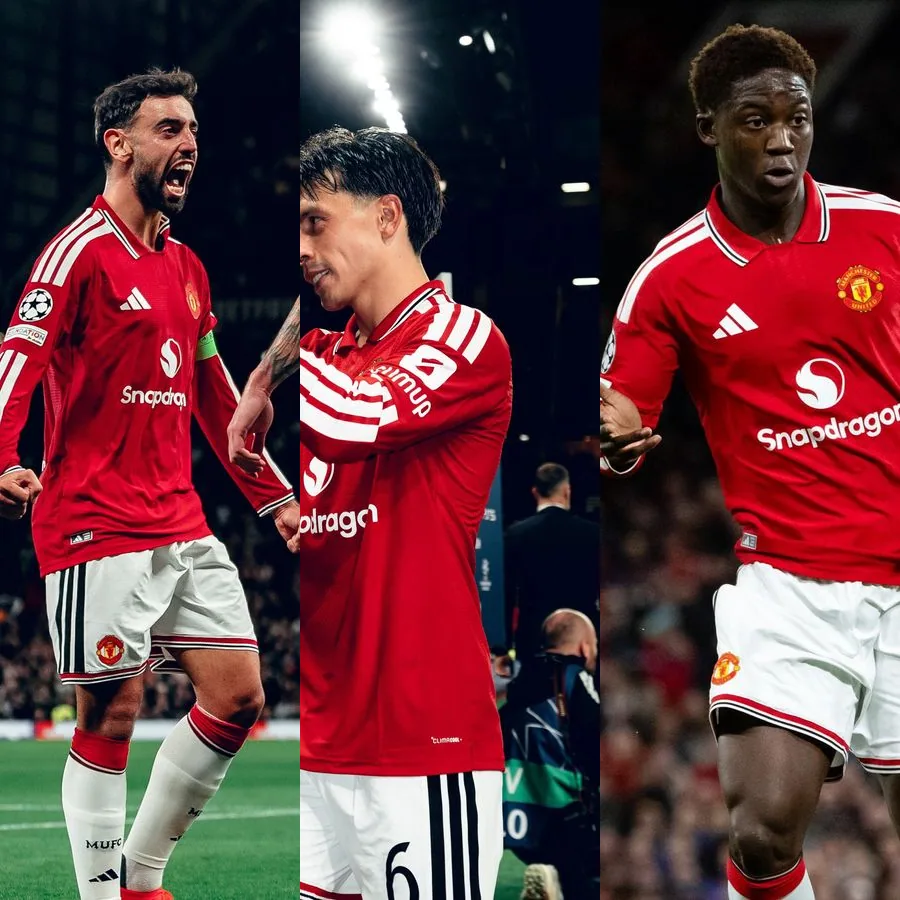
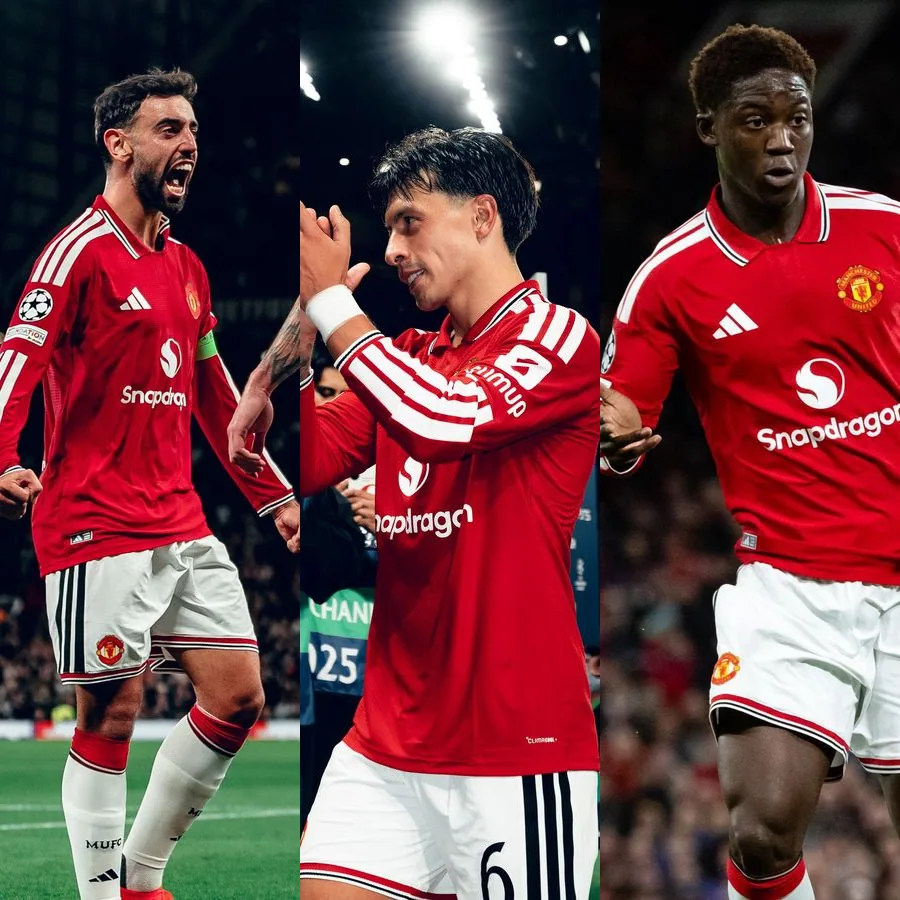
교정(축디): 유니폼관 인물 초점 정리와 맨체스터 더비 연결
하세가와 경기 사진과 맨유 표지·카드의 리산드로 칸을 얼굴 중심으로 다시 자르고,
리버풀 유혹 구간을 4:5 고정·사진 아래 캡션으로 바꿨다. 맨유 다음 편을 맨시티로 이어
더비 두 편을 서로 연결하고, 다음 편 썸네일은 얼굴이 잘리지 않는 16:9 표지를 쓴다.

Changed region(s): [[0.3111, 0.0, 0.6844, 1.0]]

diff --git a/HANDOFF.md b/HANDOFF.md
@@ -3,15 +3,15 @@
 
 ## 현재 인수인계 — 2026-09-11
 
-- **맨시티 2026/27 홈 유니폼관 발행 (Claude, EPL BIG6 순회 다섯째 편, 2026-09-12 0시):** `/culture/manchester-city-2026-27-home-kit-haaland-foden-cherki-dias/`. 운영자 지정 메인 모델은 홀란·포든·셰르키·후벵 디아스, 여성은 앨릭스 그린우드·하세가와 유이다(로드리는 8월 바르셀로나 이적). 운영자가 리버풀 유혹 구간의 인물 초점이 어긋났다고 지적해, 이번 편은 맨시티 공식 선수 프로필 컷아웃 사진을 얼굴 중심·머리 높이를 계산해 같은 선에 배치했고, 유혹 구간은 4:5 고정 비율에 캡션을 사진 아래로 내려 얼굴을 가리지 않게 했다. 본문 축은 어깨에서 밑단으로 옅어지는 그라데이션, 새 킷 첫 경기가 된 5월 24일 과르디올라·베르나르두·스톤스 고별전(빌라 1-2, 593경기·20개 트로피), 마레스카 부임과 디아스 주장, 코번트리전 홀란 헤더, WSL 챔피언 여자팀이다. 제휴 링크가 없어 푸마 코리아 공식 상품 페이지로 레플리카 129,000원·롱슬리브 149,000원·어센틱 209,000원·쇼츠 79,000원(2026-09-11 확인)을 연결했다. NEXT KIT STORY는 더비 상대 맨유다. 축디 공개 글은 30편, 유니폼관은 12편이다.
+- **맨시티 2026/27 홈 유니폼관 발행 (Claude, EPL BIG6 순회 다섯째 편, 2026-09-12 0시):** `/culture/manchester-city-2026-27-home-kit-haaland-foden-cherki-dias/`. 운영자 지정 메인 모델은 홀란·포든·셰르키·후벵 디아스, 여성은 앨릭스 그린우드·하세가와 유이다(로드리는 8월 바르셀로나 이적). 운영자가 리버풀 유혹 구간의 인물 초점이 어긋났다고 지적해, 이번 편은 맨시티 공식 선수 프로필 컷아웃 사진을 얼굴 중심·머리 높이를 계산해 같은 선에 배치했고, 유혹 구간은 4:5 고정 비율에 캡션을 사진 아래로 내려 얼굴을 가리지 않게 했다. 본문 축은 어깨에서 밑단으로 옅어지는 그라데이션, 새 킷 첫 경기가 된 5월 24일 과르디올라·베르나르두·스톤스 고별전(빌라 1-2, 593경기·20개 트로피), 마레스카 부임과 디아스 주장, 코번트리전 홀란 헤더, WSL 챔피언 여자팀이다. 제휴 링크가 없어 푸마 코리아 공식 상품 페이지로 레플리카 129,000원·롱슬리브 149,000원·어센틱 209,000원·쇼츠 79,000원(2026-09-11 확인)을 연결했다. NEXT KIT STORY는 더비 상대 맨유다. 발행 직후 운영자 지적으로 하세가와 경기 사진을 4000px 원본에서 얼굴 중심으로 다시 자르고, 맨유 표지·카드의 리산드로 칸을 얼굴 중심으로 옮겼다. 맨시티·맨유·리버풀의 NEXT KIT STORY 썸네일은 16:9 칸에서 정사각 카드 위아래가 잘려 얼굴이 빠지므로 16:9 표지 이미지를 쓴다. 축디 공개 글은 30편, 유니폼관은 12편이다.
 
 - **유니폼관 문체 교정 (운영자 지시):** 아스널·첼시·맨유·리버풀·바르사 유니폼관에서 사진 확보 사정 설명, 옛 모델 선제 변명, `구매 구간` 같은 내부 지면 용어, 링크 선정 기준 문장, `삥이FC가 편집한 표지다` 3인칭 자기 호명을 지웠다. 리버풀의 `구단은 ~라고 적었다/설명한다` 보도체 일부는 사실 서술로 바꿨다. 재발 방지로 `scripts/validate-editorial-writing.mjs` 공개 원고 제작 과정 차단어에 `삥이FC가 편집한`, `구매 구간`, `우선해 연결했`를 추가했고 기준은 `CONTENT_EDITORIAL_INTENT.md` §9에 적었다. 제휴 고지의 `삥이FC가 수수료를 받을 수 있으며`는 법적 고지라 유지한다.
 
 - **메인 1:1 칸 채움 규칙 (운영자 합의, 모든 PC·AI 공통):** 모든 칸을 `contain`으로 두던 방식은 16:9 사진에 회색 위아래 여백을 만들어 메인 미감을 해쳤다. `src/pages/index.astro`는 이제 대표·분야별·최근·더보기 칸 모두 `cardImage`를 먼저 쓰고(없으면 `coverImage`), 빌드 때 sharp로 비율을 읽어 비율 차 15% 이내 정사각형 편집물은 `contain`, 나머지는 `media-frame--fill` + `cover` + `image-focal-points.json` 초점값으로 채운다. 해펠 한 편에만 걸려 있던 `lead-image--cover-fill` 예외는 이 규칙으로 흡수했다. 레알 2026/27 3인 카드에 머리가 잘리지 않도록 초점값(y 12)을 추가했다. `scripts/qa-home-thumbnails.mjs`의 기대값도 새 규칙으로 바꿨다. 축세 `football-shirt-sponsorship-history`는 카드 이미지가 글자 박힌 16:9 영상 썸네일이라 채움 시 `BARÇA x SPOTIFY x TRAVIS SCOTT` 양끝이 잘렸다. 운영자 승인으로 같은 공식 영상 캡처에서 글자 없이 트래비스 스콧만 담은 900×900 `barcelona-travis-scott-card.webp`를 만들어 `cardImage`로 연결했다. 글 대표 이미지·OG·본문 이미지는 기존 16:9 원본 그대로다.
 
-- **리버풀 2026/27 홈 유니폼관 발행 (Claude, EPL BIG6 순회 넷째 편):** `/culture/liverpool-2026-27-home-kit-van-dijk-wirtz-szoboszlai-alisson/`. 운영자 지정 메인 모델은 판데이크·비르츠·소보슬러이·알리송이다. 판데이크·비르츠·알리송(골키퍼 셔츠)은 구단 스튜디오 화보, 소보슬러이는 5월 24일 첫 경기 사진과 7월 17일 재계약 날 안필드 사진을 썼다. 본문 축은 1989/90시즌 18번째 우승 셔츠의 무늬, 리버버드 서체와 목 뒤 97 추모 불꽃, 첫 경기가 된 살라흐·로버트슨의 안필드 고별전(브렌트퍼드 1-1, 5위), 슬롯 퇴임과 이라올라 부임이다. 26/27 홈 킷을 입은 여성 셀럽은 확인되지 않아 아디다스 여성 크롭 셔츠 모델과 구단 여자팀 화보(그레이스 피스크, 이름이 공개되지 않은 선수 두 명은 LFC WOMEN 표기)로 유혹 구간을 구성했다. 캠페인에 참여한 데니스 오설리번은 이후 고섬 FC로 임대돼 제외했다. 애드픽 아디다스 제휴상품 5개(`adidas-liverpool-ka6852` 홈 저지 129,000원, `adidas-liverpool-kb8268` 롱 슬리브 139,000원, `adidas-liverpool-ka6854` 홈 쇼츠 59,000원, `adidas-liverpool-kx3897` 펫 저지 49,000원, `adidas-liverpool-kr0354` 오리 풋볼 백 89,000원, 2026-09-11 확인)를 추가했고 어센틱은 애드픽 링크가 없어 싣지 않았다. NEXT KIT STORY는 리버풀 → 맨유다. 축디 공개 글은 29편, 유니폼관은 11편이다.
+- **리버풀 2026/27 홈 유니폼관 발행 (Claude, EPL BIG6 순회 넷째 편):** `/culture/liverpool-2026-27-home-kit-van-dijk-wirtz-szoboszlai-alisson/`. 운영자 지정 메인 모델은 판데이크·비르츠·소보슬러이·알리송이다. 판데이크·비르츠·알리송(골키퍼 셔츠)은 구단 스튜디오 화보, 소보슬러이는 5월 24일 첫 경기 사진과 7월 17일 재계약 날 안필드 사진을 썼다. 본문 축은 1989/90시즌 18번째 우승 셔츠의 무늬, 리버버드 서체와 목 뒤 97 추모 불꽃, 첫 경기가 된 살라흐·로버트슨의 안필드 고별전(브렌트퍼드 1-1, 5위), 슬롯 퇴임과 이라올라 부임이다. 26/27 홈 킷을 입은 여성 셀럽은 확인되지 않아 아디다스 여성 크롭 셔츠 모델과 구단 여자팀 화보(그레이스 피스크, 이름이 공개되지 않은 선수 두 명은 LFC WOMEN 표기)로 유혹 구간을 구성했다. 캠페인에 참여한 데니스 오설리번은 이후 고섬 FC로 임대돼 제외했다. 애드픽 아디다스 제휴상품 5개(`adidas-liverpool-ka6852` 홈 저지 129,000원, `adidas-liverpool-kb8268` 롱 슬리브 139,000원, `adidas-liverpool-ka6854` 홈 쇼츠 59,000원, `adidas-liverpool-kx3897` 펫 저지 49,000원, `adidas-liverpool-kr0354` 오리 풋볼 백 89,000원, 2026-09-11 확인)를 추가했고 어센틱은 애드픽 링크가 없어 싣지 않았다. NEXT KIT STORY는 리버풀 → 맨유다. 이후 운영자 지적으로 유혹 구간을 4:5 고정 비율과 사진 아래 캡션으로 바꿔 얼굴이 캡션에 가리지 않게 했다(맨시티 편과 같은 방식). 축디 공개 글은 29편, 유니폼관은 11편이다.
 
-- **맨유 2026/27 홈 유니폼관 발행 (Claude, EPL BIG6 순회 셋째 편):** `/culture/manchester-united-2026-27-home-kit-bruno-lisandro-mainoo/`. 운영자 지정 메인 모델은 브루노 페르난데스·리산드로 마르티네스·코비 마이누다. 세 사람은 구단·아디다스 홈 캠페인 스튜디오에 없어서, 새 홈 셔츠(긴소매)를 입고 브루노·리산드로가 골을 넣은 2026년 9월 10일 UEFA 챔피언스 리그 복귀전(사바 4-0) 구단 공식 사진으로 표지와 인물 카드를 만들었다. 본문 축은 1977년 FA컵 우승 50주년 폴로 칼라, 5월 17일 첫 실전(포리스트 3-2, 3위 확정, 브루노 20도움)과 21도움 기록, 9월 13일 199번째 더비다. 유혹 구간은 멜빈 말라르·도미니크 얀센(아디다스, House of Heat 경유)과 제스 박·레아 쉴러(구단)다. 26/27 킷을 입은 K팝 스타는 확인되지 않아 단정하지 않았고, 기존 제니(명품관)·오하영(오뭐입?) 맨유 글을 링크 카드로 연결했다. 애드픽 아디다스 제휴상품 4개(`adidas-manutd-ka6871` 129,000원, `adidas-manutd-ka6868` 199,000원, `adidas-manutd-kc4773` 139,000원, `adidas-manutd-kx3899` 펫 저지 49,000원, 2026-09-11 확인)를 중앙 목록에 추가했고, 펫 저지는 구매 카드 묶음 아래 별도 가로 카드로 세웠다. NEXT KIT STORY는 맨유 → 첼시다. 축디 공개 글은 28편, 유니폼관은 10편이다.
+- **맨유 2026/27 홈 유니폼관 발행 (Claude, EPL BIG6 순회 셋째 편):** `/culture/manchester-united-2026-27-home-kit-bruno-lisandro-mainoo/`. 운영자 지정 메인 모델은 브루노 페르난데스·리산드로 마르티네스·코비 마이누다. 세 사람은 구단·아디다스 홈 캠페인 스튜디오에 없어서, 새 홈 셔츠(긴소매)를 입고 브루노·리산드로가 골을 넣은 2026년 9월 10일 UEFA 챔피언스 리그 복귀전(사바 4-0) 구단 공식 사진으로 표지와 인물 카드를 만들었다. 본문 축은 1977년 FA컵 우승 50주년 폴로 칼라, 5월 17일 첫 실전(포리스트 3-2, 3위 확정, 브루노 20도움)과 21도움 기록, 9월 13일 199번째 더비다. 유혹 구간은 멜빈 말라르·도미니크 얀센(아디다스, House of Heat 경유)과 제스 박·레아 쉴러(구단)다. 26/27 킷을 입은 K팝 스타는 확인되지 않아 단정하지 않았고, 기존 제니(명품관)·오하영(오뭐입?) 맨유 글을 링크 카드로 연결했다. 애드픽 아디다스 제휴상품 4개(`adidas-manutd-ka6871` 129,000원, `adidas-manutd-ka6868` 199,000원, `adidas-manutd-kc4773` 139,000원, `adidas-manutd-kx3899` 펫 저지 49,000원, 2026-09-11 확인)를 중앙 목록에 추가했고, 펫 저지는 구매 카드 묶음 아래 별도 가로 카드로 세웠다. NEXT KIT STORY는 맨시티 편 발행 뒤 더비 짝에 맞춰 맨유 → 맨시티로 바꿨다(맨시티 → 맨유와 서로 연결). 축디 공개 글은 28편, 유니폼관은 10편이다.
 
 - **도구·PC 간 인수인계 규칙 (운영자 지시):** Codex와 Claude, 집 PC와 회사 PC는 대화 이력과 로컬 메모리를 공유하지 못한다. 마지막으로 작업한 도구가 운영자의 새 확정·교정 사항을 저장소 문서(편집 판단은 `CONTENT_EDITORIAL_INTENT.md`, 현재 상태는 이 브리프, 장기 규칙은 `CLAUDE.md`)에 반영해 커밋한다. `AGENTS.md` §5 4번과 `CLAUDE.md` 작업·검증 원칙에 고정했다. 첫 적용으로 첼시 BADGE NOTE의 로고·배지 병기 기준(소제목 옆 28px 투명 PNG 아이콘, 보이는 원 크기 일치)을 `CONTENT_EDITORIAL_INTENT.md` §9에 옮겼다.
 

diff --git a/src/content/articles/liverpool-2026-27-home-kit-van-dijk-wirtz-szoboszlai-alisson.md b/src/content/articles/liverpool-2026-27-home-kit-van-dijk-wirtz-szoboszlai-alisson.md
@@ -214,7 +214,7 @@ featured: false
 
 <a class="lv-next" href="/culture/manchester-united-2026-27-home-kit-bruno-lisandro-mainoo/" aria-label="맨유 2026/27 홈 유니폼 글 더 보기">
   <span class="lv-next__content"><span class="lv-next__copy"><small>NEXT KIT STORY · 03F 유니폼관</small><strong>안필드의 빨강 다음은<br />맨유의 빨강</strong><span>브루노·리산드로·마이누가 복귀전에서 입은 2026/27 홈 셔츠로 이어서 봅니다.</span></span><span class="lv-next__cta">맨유 홈 유니폼 보러 가기 <b aria-hidden="true">→</b></span></span>
-  <span class="lv-next__thumb"><img src="/images/culture/manutd-2627-home/card.webp" alt="맨체스터 유나이티드 2026/27 홈 유니폼을 입은 브루노 페르난데스, 리산드로 마르티네스, 코비 마이누" width="900" height="900" loading="lazy" decoding="async" /><span>MANCHESTER UNITED 26/27</span></span>
+  <span class="lv-next__thumb"><img src="/images/culture/manutd-2627-home/cover.webp" alt="맨체스터 유나이티드 2026/27 홈 유니폼을 입은 브루노 페르난데스, 리산드로 마르티네스, 코비 마이누" width="1600" height="900" loading="lazy" decoding="async" /><span>MANCHESTER UNITED 26/27</span></span>
 </a>
 
 <section class="source-notes">
@@ -279,11 +279,11 @@ featured: false
   .lv-record__copy p+p{margin-top:1rem;color:rgba(255,255,255,.76)}
   .lv-night{position:relative;left:50%;display:grid;grid-template-columns:repeat(2,minmax(0,1fr));gap:15px;width:min(860px,calc(100vw - 32px));margin:36px 0 58px;transform:translateX(-50%)}
   .lv-night img{display:block;width:100%;aspect-ratio:4/5;margin:0;border-radius:var(--bbfc-radius-lg);object-fit:cover}
-  .lv-allure{position:relative;left:50%;display:grid;grid-template-columns:1.25fr repeat(3,minmax(0,1fr));gap:14px;width:min(1120px,calc(100vw - 32px));margin:42px 0 56px;padding:14px;border-radius:var(--bbfc-radius-lg);background:linear-gradient(135deg,#0c0c0f,#3a0a12 60%,#0c0c0f);transform:translateX(-50%)}
+  .lv-allure{position:relative;left:50%;display:grid;grid-template-columns:repeat(4,minmax(0,1fr));gap:14px;width:min(1120px,calc(100vw - 32px));margin:42px 0 56px;padding:14px;border-radius:var(--bbfc-radius-lg);background:linear-gradient(135deg,#0c0c0f,#3a0a12 60%,#0c0c0f);transform:translateX(-50%)}
   .lv-allure figure{position:relative;min-width:0;margin:0;overflow:hidden;border-radius:calc(var(--bbfc-radius-lg) - 4px);background:#000}
-  .lv-allure img{display:block;width:100%;height:100%;min-height:380px;margin:0;object-fit:cover;object-position:center top;transition:transform .6s ease}
+  .lv-allure img{display:block;width:100%;aspect-ratio:4/5;height:auto;margin:0;object-fit:cover;object-position:center 12%;transition:transform .6s ease}
   .lv-allure figure:hover img{transform:scale(1.04)}
-  .article-body .lv-allure figcaption{position:absolute;right:0;bottom:0;left:0;padding:60px 16px 16px;background:linear-gradient(transparent,rgba(8,2,4,.92));color:#fff;font-size:12px;line-height:1.55;text-align:left}
+  .article-body .lv-allure figcaption{position:static;padding:13px 13px 15px;background:#150709;color:#fff;font-size:12px;line-height:1.55;text-align:left}
   .lv-allure figcaption b{color:#6fe3cf;font-size:11px;letter-spacing:.1em}
   .lv-allure figcaption span{margin-top:5px;color:rgba(255,255,255,.86)}
   .lv-allure>.lv-credit{color:rgba(255,255,255,.55)}
@@ -347,13 +347,13 @@ featured: false
   .lv-next__cta{display:flex;align-items:center;justify-content:space-between;gap:24px;width:fit-content;min-width:340px;margin-top:26px;padding:14px 17px 14px 20px;border:1px solid rgba(255,255,255,.6);border-radius:999px;background:rgba(8,6,20,.45);color:#fff;font-size:16px;font-weight:800;backdrop-filter:blur(8px)}
   .lv-next__cta b{color:#6fe3cf;font-size:24px;line-height:1;transition:transform .3s ease}
   .lv-next__thumb{position:relative;display:block;height:248px;overflow:hidden;border:1px solid rgba(255,255,255,.4);border-radius:calc(var(--bbfc-radius-lg) - 4px);background:#101c37}
-  .lv-next__thumb img{display:block;width:100%;height:100%;margin:0;object-fit:cover;object-position:center 22%;transition:transform .55s ease}
+  .lv-next__thumb img{display:block;width:100%;height:100%;margin:0;object-fit:cover;object-position:center 30%;transition:transform .55s ease}
   .lv-next__thumb>span{position:absolute;right:12px;bottom:12px;padding:6px 10px;border:1px solid rgba(255,255,255,.45);border-radius:999px;background:rgba(8,13,44,.72);color:#fff;font-size:11px;font-weight:800;letter-spacing:.1em;backdrop-filter:blur(8px)}
   .lv-next:hover{color:#fff;transform:translateY(-6px);box-shadow:0 28px 64px rgba(40,10,30,.34)}
   .lv-next:hover .lv-next__cta b{transform:translateX(5px)}
   .lv-next:hover .lv-next__thumb img{transform:scale(1.045)}
   .lv-next:focus-visible{outline:3px solid #6fe3cf;outline-offset:4px}
-  @media(max-width:1000px){.lv-cast{grid-template-columns:repeat(2,minmax(0,1fr))}.lv-allure{grid-template-columns:repeat(2,minmax(0,1fr))}.lv-allure img{height:auto;min-height:0;aspect-ratio:4/5}.article-body .lv-allure figcaption{position:static;padding:12px 13px 14px;background:#150709}}@media(max-width:600px){.lv-allure{grid-template-columns:1fr}}
+  @media(max-width:1000px){.lv-cast{grid-template-columns:repeat(2,minmax(0,1fr))}.lv-allure{grid-template-columns:repeat(2,minmax(0,1fr))}}@media(max-width:600px){.lv-allure{grid-template-columns:1fr}}
   @media(max-width:900px){.lv-pet--bag{grid-template-columns:1fr}.lv-pet--bag .lv-pet__media{min-height:0;aspect-ratio:2/1}.lv-shop-grid{grid-template-columns:1fr}.lv-shop-card{display:grid;grid-template-columns:minmax(0,.9fr) minmax(0,1.1fr)}.lv-shop-card__media{aspect-ratio:auto;min-height:320px}.lv-pet{grid-template-columns:1fr}.lv-pet__media{min-height:0;aspect-ratio:13/10}}
   @media(max-width:720px){.lv-index,.lv-manifesto,.lv-design,.lv-record,.lv-neck,.lv-next{grid-template-columns:1fr}.lv-index>div,.lv-manifesto article{min-height:0;padding:22px 21px 24px}.lv-manifesto article+article{border-top:1px solid rgba(255,255,255,.17);border-left:0}.lv-cast{grid-template-columns:repeat(2,minmax(0,1fr))}.lv-record__stat{padding:22px 20px}.lv-shop-card{display:flex}.lv-shop-card__media{aspect-ratio:1/1;min-height:0}.lv-pet__copy{padding:24px 21px 21px}.lv-next{gap:22px}.lv-next__cta{width:100%;min-width:0}.lv-next__thumb{order:-1;height:auto;aspect-ratio:16/9}}
   @media(max-width:520px){.lv-index,.lv-cast,.lv-design,.lv-manifesto,.lv-record,.lv-allure,.lv-night{margin-top:36px;margin-bottom:48px}.lv-hero{margin-bottom:48px}.lv-neck{margin-bottom:52px}.lv-cast,.lv-night{gap:10px}.lv-allure{gap:10px;padding:10px}.article-body .lv-allure figcaption{padding:12px 13px 14px;font-size:12px}.lv-shop-grid{gap:20px}.lv-pet__media{gap:4px;padding:4px}.lv-next{gap:0;min-height:0;margin:52px auto 58px;padding:0}.lv-next__content{padding:24px 22px 25px}.lv-next__copy strong{font-size:30px}.lv-next__cta{padding:13px 15px 13px 17px;font-size:15px}.lv-next__thumb{border-width:0 0 1px;border-radius:0}}

diff --git a/src/content/articles/manchester-united-2026-27-home-kit-bruno-lisandro-mainoo.md b/src/content/articles/manchester-united-2026-27-home-kit-bruno-lisandro-mainoo.md
@@ -204,9 +204,9 @@ featured: false
 
 처음 한 장이라면 일반형, 브루노와 같은 원단을 원하면 어센틱, 더비가 열리는 가을 밤까지 오래 입고 싶다면 긴소매가 맞다. 아디다스는 이번 시즌 레알 마드리드와 리버풀 등의 펫 저지를 함께 내놓았는데, 맨유 펫 저지는 49,000원이라 사람 셔츠 한 장 옆에 같은 빨강으로 맞춰 담기 좋다.
 
-<a class="mu-next" href="/culture/chelsea-2026-27-home-kit-cole-palmer-ellie-carpenter/" aria-label="첼시 2026/27 홈 유니폼 글 더 보기">
-  <span class="mu-next__content"><span class="mu-next__copy"><small>NEXT KIT STORY · 03F 유니폼관</small><strong>맨유의 빨강 다음은<br />첼시의 금색 사자</strong><span>콜 파머와 엘리 카펜터가 나눠 입은 2026/27 홈 셔츠로 이어서 봅니다.</span></span><span class="mu-next__cta">첼시 홈 유니폼 보러 가기 <b aria-hidden="true">→</b></span></span>
-  <span class="mu-next__thumb"><img src="/images/culture/chelsea-2627-home/card.webp" alt="첼시 2026/27 홈 유니폼을 입은 콜 파머와 엘리 카펜터" width="900" height="900" loading="lazy" decoding="async" /><span>CHELSEA FC 26/27</span></span>
+<a class="mu-next" href="/culture/manchester-city-2026-27-home-kit-haaland-foden-cherki-dias/" aria-label="맨시티 2026/27 홈 유니폼 글 더 보기">
+  <span class="mu-next__content"><span class="mu-next__copy"><small>NEXT KIT STORY · 03F 유니폼관</small><strong>더비의 반대편은<br />맨시티의 하늘색</strong><span>일요일 올드 트래퍼드에서 마주칠 홀란·포든·셰르키·디아스의 2026/27 홈 셔츠로 이어서 봅니다.</span></span><span class="mu-next__cta">맨시티 홈 유니폼 보러 가기 <b aria-hidden="true">→</b></span></span>
+  <span class="mu-next__thumb"><img src="/images/culture/mancity-2627-home/cover.webp" alt="맨체스터 시티 2026/27 홈 유니폼을 입은 엘링 홀란, 필 포든, 라얀 셰르키, 후벵 디아스" width="1600" height="900" loading="lazy" decoding="async" /><span>MANCHESTER CITY 26/27</span></span>
 </a>
 
 <section class="source-notes">
@@ -345,7 +345,7 @@ featured: false
   .mu-next__cta{display:flex;align-items:center;justify-content:space-between;gap:24px;width:fit-content;min-width:340px;margin-top:26px;padding:14px 17px 14px 20px;border:1px solid rgba(255,255,255,.6);border-radius:999px;background:rgba(8,6,20,.45);color:#fff;font-size:16px;font-weight:800;backdrop-filter:blur(8px)}
   .mu-next__cta b{color:#f5c542;font-size:24px;line-height:1;transition:transform .3s ease}
   .mu-next__thumb{position:relative;display:block;height:248px;overflow:hidden;border:1px solid rgba(255,255,255,.4);border-radius:calc(var(--bbfc-radius-lg) - 4px);background:#101c37}
-  .mu-next__thumb img{display:block;width:100%;height:100%;margin:0;object-fit:cover;object-position:center 22%;transition:transform .55s ease}
+  .mu-next__thumb img{display:block;width:100%;height:100%;margin:0;object-fit:cover;object-position:center 30%;transition:transform .55s ease}
   .mu-next__thumb>span{position:absolute;right:12px;bottom:12px;padding:6px 10px;border:1px solid rgba(255,255,255,.45);border-radius:999px;background:rgba(8,13,44,.72);color:#fff;font-size:11px;font-weight:800;letter-spacing:.1em;backdrop-filter:blur(8px)}
   .mu-next:hover{color:#fff;transform:translateY(-6px);box-shadow:0 28px 64px rgba(40,10,30,.34)}
   .mu-next:hover .mu-next__cta b{transform:translateX(5px)}

diff --git a/src/content/articles/manchester-city-2026-27-home-kit-haaland-foden-cherki-dias.md b/src/content/articles/manchester-city-2026-27-home-kit-haaland-foden-cherki-dias.md
@@ -205,7 +205,7 @@ featured: false
 
 <a class="mc-next" href="/culture/manchester-united-2026-27-home-kit-bruno-lisandro-mainoo/" aria-label="맨유 2026/27 홈 유니폼 글 더 보기">
   <span class="mc-next__content"><span class="mc-next__copy"><small>NEXT KIT STORY · 03F 유니폼관</small><strong>더비의 반대편은<br />맨유의 빨강</strong><span>일요일 올드 트래퍼드에서 마주칠 브루노·리산드로·마이누의 2026/27 홈 셔츠로 이어서 봅니다.</span></span><span class="mc-next__cta">맨유 홈 유니폼 보러 가기 <b aria-hidden="true">→</b></span></span>
-  <span class="mc-next__thumb"><img src="/images/culture/manutd-2627-home/card.webp" alt="맨체스터 유나이티드 2026/27 홈 유니폼을 입은 브루노 페르난데스, 리산드로 마르티네스, 코비 마이누" width="900" height="900" loading="lazy" decoding="async" /><span>MANCHESTER UNITED 26/27</span></span>
+  <span class="mc-next__thumb"><img src="/images/culture/manutd-2627-home/cover.webp" alt="맨체스터 유나이티드 2026/27 홈 유니폼을 입은 브루노 페르난데스, 리산드로 마르티네스, 코비 마이누" width="1600" height="900" loading="lazy" decoding="async" /><span>MANCHESTER UNITED 26/27</span></span>
 </a>
 
 <section class="source-notes">
@@ -343,7 +343,7 @@ featured: false
   .mc-next__cta{display:flex;align-items:center;justify-content:space-between;gap:24px;width:fit-content;min-width:340px;margin-top:26px;padding:14px 17px 14px 20px;border:1px solid rgba(255,255,255,.6);border-radius:999px;background:rgba(8,6,20,.45);color:#fff;font-size:16px;font-weight:800;backdrop-filter:blur(8px)}
   .mc-next__cta b{color:#bfe6ff;font-size:24px;line-height:1;transition:transform .3s ease}
   .mc-next__thumb{position:relative;display:block;height:248px;overflow:hidden;border:1px solid rgba(255,255,255,.4);border-radius:calc(var(--bbfc-radius-lg) - 4px);background:#101c37}
-  .mc-next__thumb img{display:block;width:100%;height:100%;margin:0;object-fit:cover;object-position:center 22%;transition:transform .55s ease}
+  .mc-next__thumb img{display:block;width:100%;height:100%;margin:0;object-fit:cover;object-position:center 30%;transition:transform .55s ease}
   .mc-next__thumb>span{position:absolute;right:12px;bottom:12px;padding:6px 10px;border:1px solid rgba(255,255,255,.45);border-radius:999px;background:rgba(8,13,44,.72);color:#fff;font-size:11px;font-weight:800;letter-spacing:.1em;backdrop-filter:blur(8px)}
   .mc-next:hover{color:#fff;transform:translateY(-6px);box-shadow:0 28px 64px rgba(5,20,45,.34)}
   .mc-next:hover .mc-next__cta b{transform:translateX(5px)}
